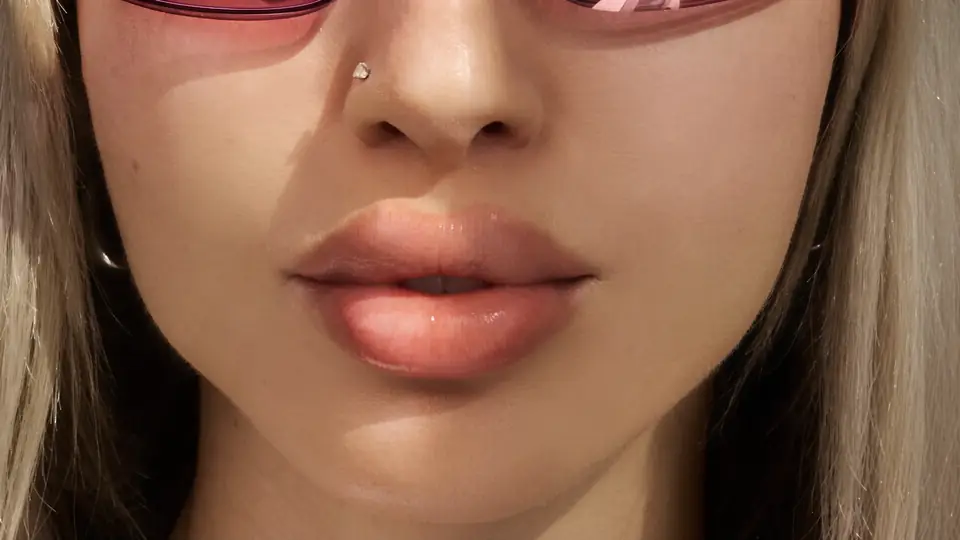
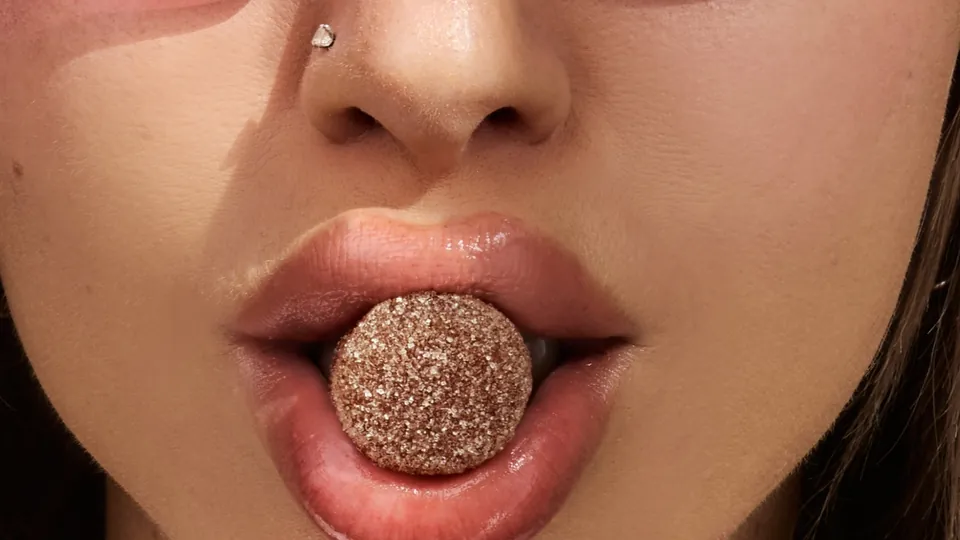
Mobile: no carousel dots, feel-good never splits, INDULGENCE over the mouth; hero still as video fallback
Claude-Session: https://claude.ai/code/session_01YU6pJrJvwk9VsPxBv5cUqE

diff --git a/index.html b/index.html
@@ -87,7 +87,7 @@
         </div>
         <div class="story__text" data-reveal>
           <h2 class="story__title" id="story-title">Intention in every bite</h2>
-          <p>At MUSHI, we believe feeling good should taste just as good. That’s why we combine thoughtfully selected ingredients, irresistible flavors, and feel-good experiences into every bite. No complicated routines. No wellness chores. Just delicious indulgences made to elevate everyday moments and give you something worth looking forward to.</p>
+          <p>At MUSHI, we believe feeling good should taste just as good. That’s why we combine thoughtfully selected ingredients, irresistible flavors, and feel-good experiences into every bite. No complicated routines. No wellness chores. Just delicious indulgences made to elevate everyday moments and give you something worth looking forward to.</p>
           <p>Because life’s better when you savor the moment.</p>
           <a class="btn btn--dark" href="/pages/about.html">About us</a>
         </div>
@@ -121,7 +121,7 @@
       </div>
       <div class="wholesale__text" data-reveal>
         <h2 class="wholesale__title" id="wholesale-title">More Mushi.<br>More vibes.</h2>
-        <p>Stock your shelves with Mushi. Our bulk boxes include 10 pouches of feel-good deliciousness, perfect for dispensaries, retail stores, and specialty shops looking to bring something different to their customers.</p>
+        <p>Stock your shelves with Mushi. Our bulk boxes include 10 pouches of feel-good deliciousness, perfect for dispensaries, retail stores, and specialty shops looking to bring something different to their customers.</p>
         <button class="btn btn--dark" type="button" data-open-modal="wholesale">Wholesale inquiries</button>
       </div>
     </section>

diff --git a/src/pages/ingredients.js b/src/pages/ingredients.js
@@ -29,7 +29,7 @@ export function render(main) {
       <div class="page__media">${picture('ingredients-mushroom-blend', { alt: 'Mushrooms growing on a mossy log in soft forest light', sizes: '(min-width: 900px) 44vw, 92vw' })}</div>
       <div class="prose">
         <h2 id="ing-blend">Organic mushroom blend ${flag}</h2>
-        <p>Our blend is built around the qualities people actually look for in a modern feel-good ritual. On one end, the things that sharpen a day — focus, memory, mental clarity and the kind of cognitive performance that holds up past the first hour. Underneath it, the quieter work: immune support and antioxidant support.</p>
+        <p>Our blend is built around the qualities people actually look for in a modern feel-good ritual. On one end, the things that sharpen a day — focus, memory, mental clarity and the kind of cognitive performance that holds up past the first hour. Underneath it, the quieter work: immune support and antioxidant support.</p>
         <p>Then there’s how the day actually feels. Natural energy and stamina that build steadily instead of spiking, with enough balance and relaxation left over for the evening.</p>
         <p>Rather than relying on a single ingredient or a single effect, we bring complementary mushrooms together into one intentionally developed formula.</p>
       </div>

diff --git a/src/pages/wholesale.js b/src/pages/wholesale.js
@@ -8,7 +8,7 @@ export function render(main) {
     <section class="page__section page__split page__split--top wholesale-page">
       <div class="page__media page__media--plain page__media--sticky">${picture('wholesale-display', { alt: 'MUSHI bulk display boxes of Green Apple, Peach Bliss and Cherry gummies', sizes: '(min-width: 900px) 46vw, 92vw', eager: true })}</div>
       <div class="prose">
-        <p>Stock your shelves with Mushi. Our bulk boxes include 10 pouches of feel-good deliciousness, perfect for dispensaries, retail stores, and specialty shops looking to bring something different to their customers.</p>
+        <p>Stock your shelves with Mushi. Our bulk boxes include 10 pouches of feel-good deliciousness, perfect for dispensaries, retail stores, and specialty shops looking to bring something different to their customers.</p>
         ${wholesaleFormMarkup()}
       </div>
     </section>`;

diff --git a/src/data/content.js b/src/data/content.js
@@ -58,7 +58,7 @@ export const faqs = [
   {
     q: 'What is Mushi?',
     a: [
-      'Mushi creates Feel-Good Indulgences—gummies and chocolates that bring together thoughtful ingredients, craveable flavor and an experience designed to make everyday moments feel a little more special.',
+      'Mushi creates Feel-Good Indulgences—gummies and chocolates that bring together thoughtful ingredients, craveable flavor and an experience designed to make everyday moments feel a little more special.',
       'We believe feeling good should feel less like a wellness routine and more like something you actually look forward to.',
     ],
     source: 'mushi-wireframes/faq.html #01',

diff --git a/src/styles/sections.css b/src/styles/sections.css
@@ -235,9 +235,6 @@
   .showcase__arrow {
     display: none;
   }
-  .showcase__dots {
-    display: flex;
-  }
 }
 
 /* ---------- 7.5 Lifestyle accordion ---------- */
@@ -929,8 +926,9 @@
     transform: none;
   }
   .hero__title {
-    inset: auto 0 22% 0;
-    transform: none;
+    /* over her mouth (58% down the frame) */
+    inset: 58% 0 auto;
+    transform: translateY(-50%);
   }
   .hero__badge {
     width: 5rem;

diff --git a/src/styles/components.css b/src/styles/components.css
@@ -1217,3 +1217,10 @@
     grid-template-columns: 1fr 1fr;
   }
 }
+
+/* Phones: carousels are swiped, so the pagination dots are hidden. */
+@media (max-width: 899px) {
+  .carousel__dots {
+    display: none;
+  }
+}

diff --git a/src/styles/base.css b/src/styles/base.css
@@ -111,6 +111,7 @@ button {
 }
 
 .marker {
+  white-space: nowrap; /* "feel-good" never splits at the hyphen */
   font-family: var(--font-marker);
   font-style: normal;
   font-weight: 400;

diff --git a/scripts/optimize_assets.py b/scripts/optimize_assets.py
@@ -221,6 +221,13 @@ def main():
             small = im.resize((960, round(im.height * 960 / im.width)), Image.LANCZOS)
             small.save(os.path.join(vdir, name + "-960.webp"), "WEBP", quality=72, method=6)
             os.remove(os.path.join(vdir, tmp))
+        # Loading fallback: the supplied still (Mushi-hero-lips.jpg), framed so the mouth sits where it does in the video.
+        still = os.path.join(SRC, "Mushi-hero-lips.jpg")
+        if os.path.exists(still):
+            ph = Image.open(still).convert("RGB")
+            ph = ph.resize((2285, round(ph.height * 2285 / ph.width)), Image.LANCZOS).crop((312, 4, 2232, 1084))
+            ph.save(os.path.join(vdir, "hero-poster.webp"), "WEBP", quality=80, method=6)
+            ph.resize((960, 540), Image.LANCZOS).save(os.path.join(vdir, "hero-poster-960.webp"), "WEBP", quality=80, method=6)
         manifest["video"]["hero"] = {
             "original": "mushi-hero-video-gummie.mp4 (HEVC 1920x1080, 9.04s)",
             "usage": "Hero background video",
